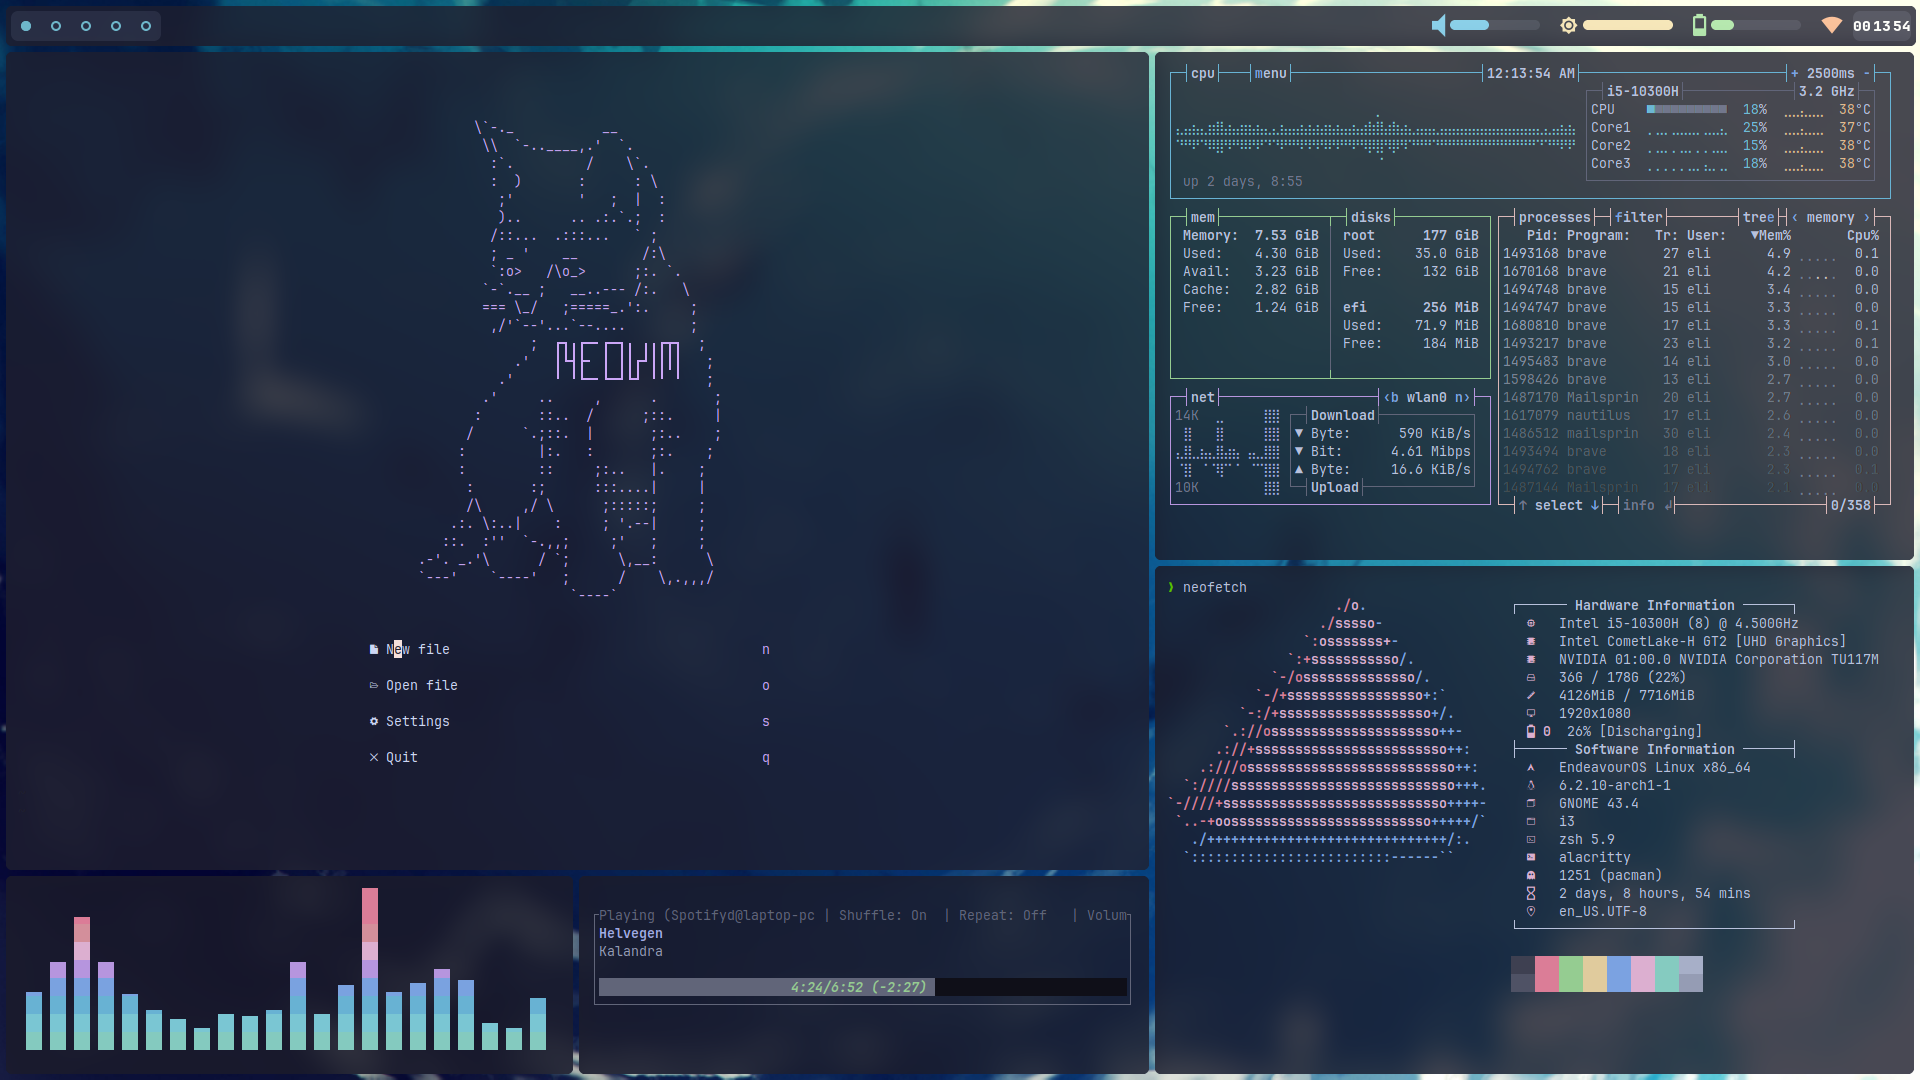
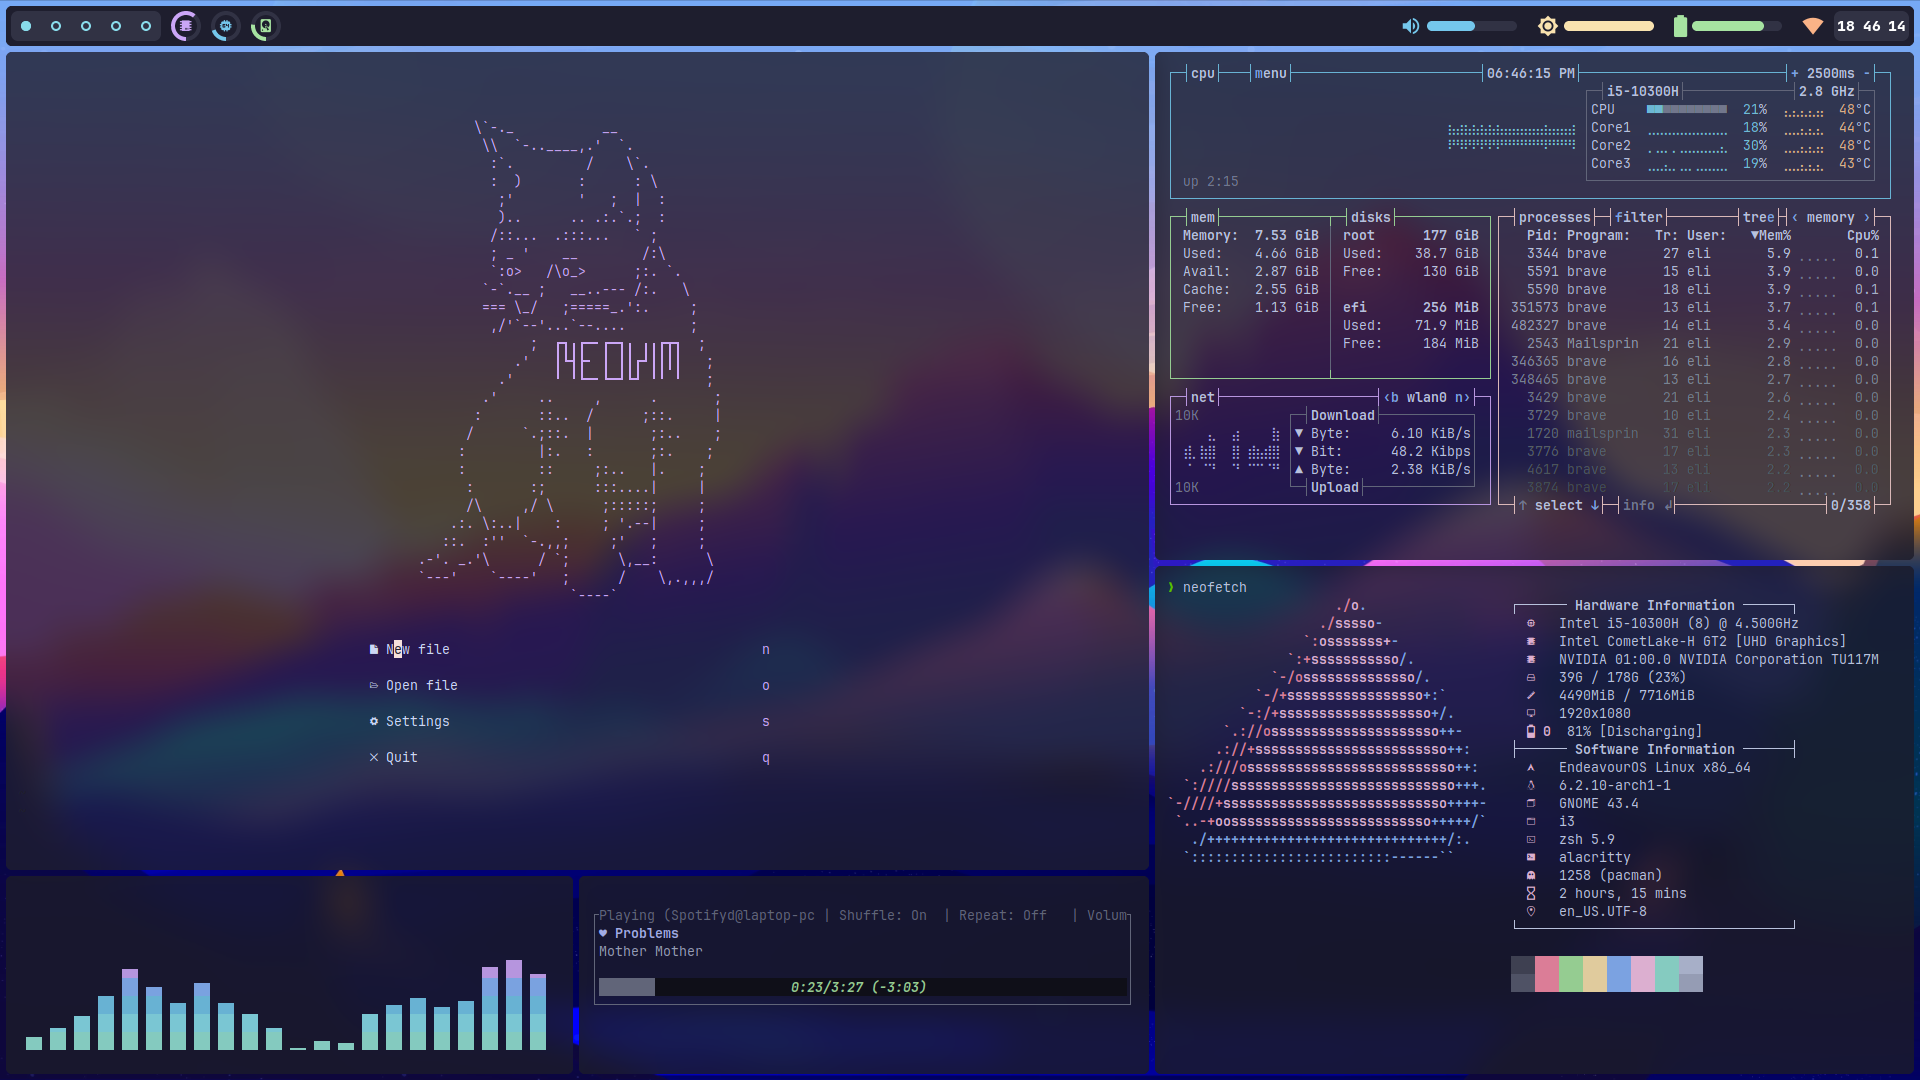
add machine stats to bar

diff --git a/.config/eww/bars/horizontal/eww.css b/.config/eww/bars/horizontal/eww.css
@@ -27,6 +27,25 @@
   min-height: 30px;
 }
 
+.circle {
+  background-color: #313244;
+}
+
+.ram {
+  color: #cba6f7;
+  font-size: 1.75rem;
+}
+
+.cpu {
+  color: #74c7ec;
+  font-size: 1.75rem;
+}
+
+.disk {
+  color: #a6e3a1;
+  font-size: 1.75rem;
+}
+
 progressbar trough,
 scale trough {
   background-color: #313244;
